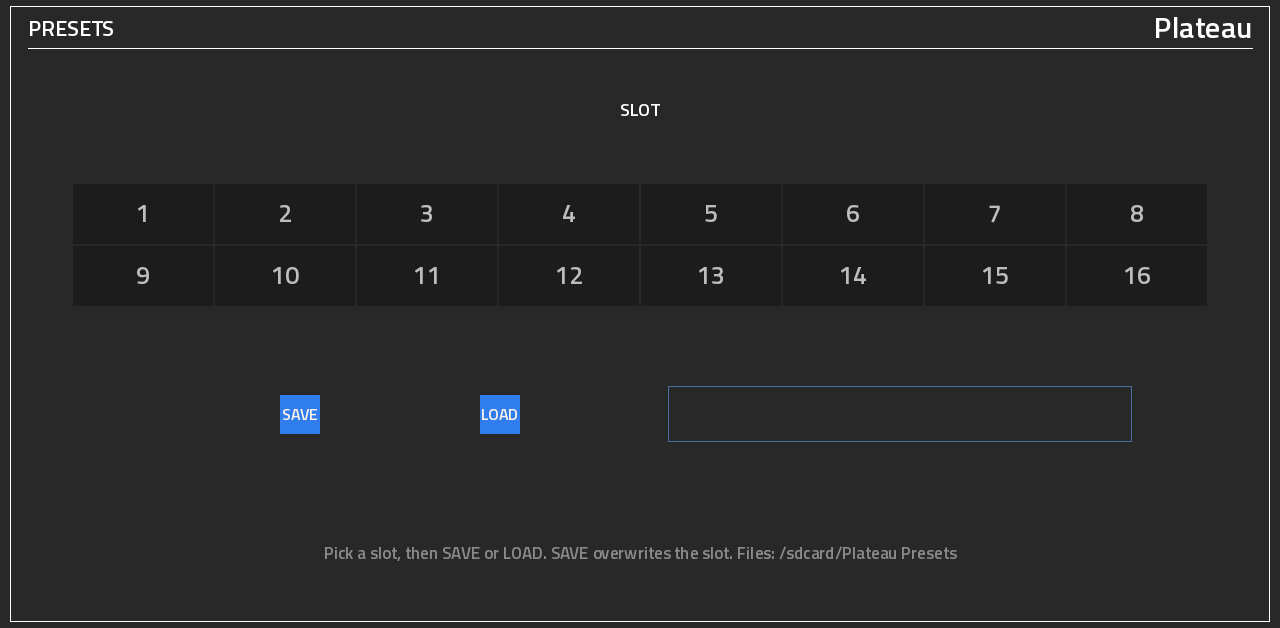
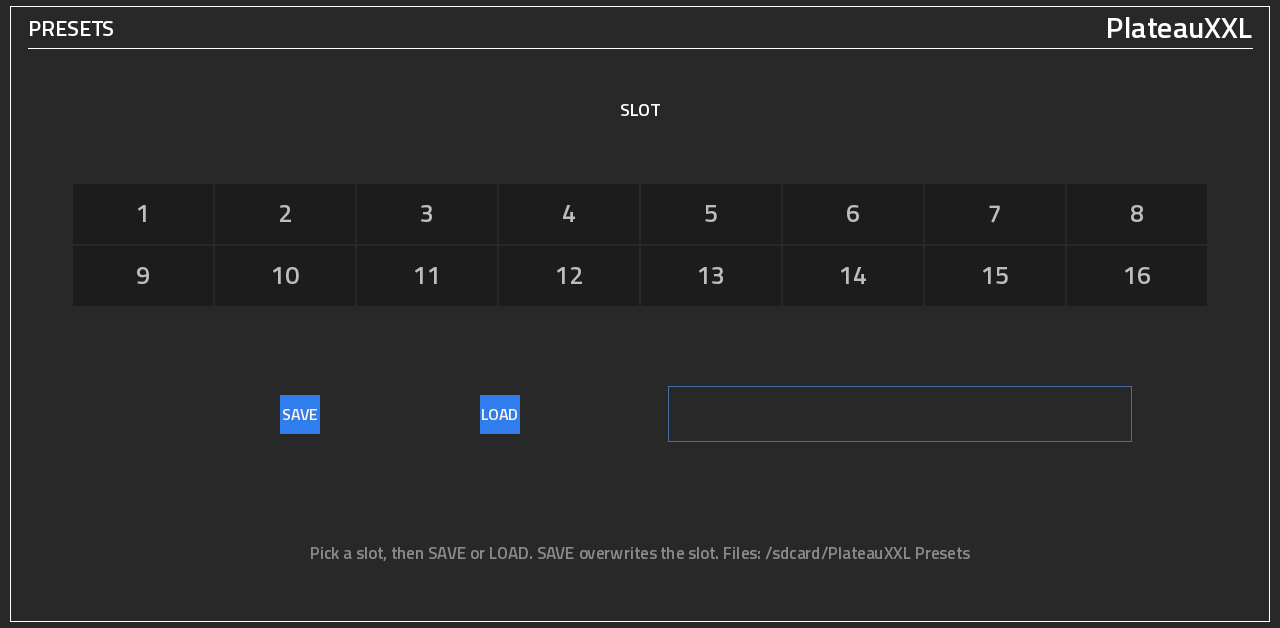
0.4.1: name the plugin PlateauXXL on the device and in the catalog
Plugin list, page titles, plugin folder, plateauxxl.so, presets folder and catalog id plateauxxl. The uid is unchanged.

Claude-Session: https://claude.ai/code/session_0158n5WvmkJ7rz6zgE5saniE

Changed region(s): [[0.25, 0.8471, 0.75, 0.9076], [0.8438, 0.0303, 1.0, 0.0605]]

diff --git a/src/engine.cc b/src/engine.cc
@@ -6,7 +6,7 @@
 //
 // Panic and presets follow RMXXXL (same author): Panic puts every parameter back to its default (the preset slot
 // stays), empties the tank and restarts the sources; 16 preset slots are files "Preset NN.txt" holding the state
-// string, in "Plateau Presets" (/sdcard/Plateau Presets on the device). Save snapshots the state on the caller's
+// string, in "PlateauXXL Presets" (/sdcard/PlateauXXL Presets on the device). Save snapshots the state on the caller's
 // thread and a worker thread writes it; Load has the worker read the file and the audio thread apply it.
 //
 // Q-Links and taps (RMXXXL 1.2.1, learned on a Force): a trigger fires on every tap (it reads back 0) and on a Q-Link
@@ -332,7 +332,7 @@ void* Create(const char* data_dir) {
   s->s_ceiling = DefaultValue(P_LIM_CEILING);
   PushControlSettings(s, 0);
   // presets: MODULE_DIR (vst.json), else beside the working directory
-  snprintf(s->preset_dir, sizeof s->preset_dir, "%s", data_dir ? data_dir : "Plateau Presets");
+  snprintf(s->preset_dir, sizeof s->preset_dir, "%s", data_dir ? data_dir : "PlateauXXL Presets");
   pthread_mutex_init(&s->preset_mutex, NULL);
   s->save_text = s->loaded_text = s->retired_text = NULL;
   s->save_slot = 0;

diff --git a/tools/gen_params.py b/tools/gen_params.py
@@ -143,7 +143,7 @@ def main():
     keys = [p["key"] for p in P]
     assert len(keys) == len(set(keys)), "duplicate key"
     with open(os.path.join(ROOT, "params.json"), "w") as f:
-        json.dump({"name": "Plateau", "params": P}, f, indent=1)
+        json.dump({"name": "PlateauXXL", "params": P}, f, indent=1)
         f.write("\n")
     lines = ["// generated by tools/gen_params.py: do not edit", "#pragma once", "", "enum ParamId {"]
     lines += ["  %s = %d," % (c_ident(k), i) for i, k in enumerate(keys)]

diff --git a/README.md b/README.md
@@ -1,10 +1,10 @@
-# PlateauXXL v0.4.0
+# PlateauXXL v0.4.1
 
 **Valley Audio's Plateau reverb, patched with its own LFOs, random sources and sequencers, running natively inside
 MPC OS on the Akai Force.**
 
 PlateauXXL is a VST2 insert effect for MPC OS's built-in plugin host, made by L'Cronx (shown on the device as
-**Plateau** by **ANDREALPHEUS**). It is a port of **Plateau**, Dale Johnson's plate reverb for VCV Rack: huge,
+**PlateauXXL** by **ANDREALPHEUS**). It is a port of **Plateau**, Dale Johnson's plate reverb for VCV Rack: huge,
 smooth tails from Jon Dattorro's 1997 algorithm, a modulated tank, Hold to freeze it, Clear to empty it, and a Tuned
 mode that turns tiny tank sizes into pitched, resonant tones. On VCV Rack, Plateau comes alive through what is patched
 into its fifteen CV jacks. A Force has no cables, so PlateauXXL builds the patch in: every jack picks a source, and the
@@ -12,7 +12,7 @@ sources are VCV favourites running inside the plugin, each on a page drawn like 
 track, a submix or the master; everything sits in one insert slot, follows the MPC tempo and saves with your project.
 
 > [!NOTE]
-> **Status: 0.4.0.** 0.3.0 was tested on an Akai Force (the latest MPC OS, with MockbaMod). 0.4.0 adds Panic,
+> **Status: 0.4.1.** 0.3.0 was tested on an Akai Force (the latest MPC OS, with MockbaMod). 0.4.x adds Panic,
 > presets and the new Q-Link layout, and passes the full test suite on x86 (ASan + UBSan) and on the ARM build under
 > QEMU; it is not yet tested on the device. Report anything odd under [Issues](../../issues).
 
@@ -87,20 +87,23 @@ Clear empties the tank on each rising edge).
 
 ## Installation
 
-Download `Plateau-<version>-mpc-armv7.zip` from [Releases](../../releases), or build it (below). Unzip it and
+Download `PlateauXXL-<version>-mpc-armv7.zip` from [Releases](../../releases), or build it (below). Unzip it and
 follow the `INSTALL.md` inside. In short:
 
 ```
-scp -r Plateau-<version> root@<device-ip>:/tmp/
-ssh -t root@<device-ip> sh /tmp/Plateau-<version>/install.sh
+scp -r PlateauXXL-<version> root@<device-ip>:/tmp/
+ssh -t root@<device-ip> sh /tmp/PlateauXXL-<version>/install.sh
 ```
 
 The installer asks for confirmation (`-y` skips it), **stops MPC** (save your project first), copies the plugin
-to `/sdcard/Synths/ANDREALPHEUS - VST - Plateau/`, backs up and edits `MPC.settings`, and starts MPC again.
-Running it again upgrades in place. Then insert **Plateau** (manufacturer ANDREALPHEUS) on a track, submix or the
+to `/sdcard/Synths/ANDREALPHEUS - VST - PlateauXXL/`, backs up and edits `MPC.settings`, and starts MPC again.
+Running it again upgrades in place. Then insert **PlateauXXL** (manufacturer ANDREALPHEUS) on a track, submix or the
 master. `uninstall.sh` removes it the same way.
 
-Presets go in `/sdcard/Plateau Presets` (created on the first save), outside the plugin folder, so they survive
+Upgrading from 0.4.0 or earlier: those were installed as **Plateau**. Remove that first with the old zip's
+uninstaller (`ssh -t root@<device-ip> sh /tmp/Plateau-0.4.0/uninstall.sh`), then install this one.
+
+Presets go in `/sdcard/PlateauXXL Presets` (created on the first save), outside the plugin folder, so they survive
 updates.
 
 ## Building
@@ -111,7 +114,7 @@ Linux or WSL with Python 3 (+ Pillow, cairosvg), gcc, the DejaVu fonts and [Zig]
 ```
 git clone --recursive https://github.com/sunskiefer/PlateauXXL
 cd PlateauXXL
-./build.sh                # build/arm/plateau.so + the skin -> build/package/
+./build.sh                # build/arm/plateauxxl.so + the skin -> build/package/
 test/run_tests.sh         # the framework's host test + PlateauXXL's own suites, under ASan/UBSan
 ```
 

diff --git a/docs/USER_GUIDE.md b/docs/USER_GUIDE.md
@@ -3,7 +3,7 @@
 PlateauXXL is Valley Audio's **Plateau** reverb from VCV Rack as an insert effect for MPC OS on the Akai Force, with
 the patch cables replaced by modulation sources that run inside the plugin: four **Bogaudio LFOs**, **Tidal
 Modulator 2** (Mutable Instruments Tides 2), **Random Sampler** (Mutable Instruments Marbles), and two step and two
-gate sequencers. On the device it is listed as **Plateau**, manufacturer **ANDREALPHEUS**.
+gate sequencers. On the device it is listed as **PlateauXXL**, manufacturer **ANDREALPHEUS**.
 
 - [Install](#install)
 - [The signal path](#the-signal-path)
@@ -25,18 +25,18 @@ gate sequencers. On the device it is listed as **Plateau**, manufacturer **ANDRE
 
 You need a first-generation Akai Force on MPC OS 3.x with root SSH access (for example through MockbaMod).
 
-1. Download `Plateau-<version>-mpc-armv7.zip` from [Releases](../../../releases) and unzip it on your computer.
+1. Download `PlateauXXL-<version>-mpc-armv7.zip` from [Releases](../../../releases) and unzip it on your computer.
 2. Copy the folder to the Force and run the installer (save your project first: it stops MPC):
 
    ```
-   scp -r Plateau-<version> root@<device-ip>:/tmp/
-   ssh -t root@<device-ip> sh /tmp/Plateau-<version>/install.sh
+   scp -r PlateauXXL-<version> root@<device-ip>:/tmp/
+   ssh -t root@<device-ip> sh /tmp/PlateauXXL-<version>/install.sh
    ```
 
-3. MPC starts again. Insert **Plateau** (ANDREALPHEUS) on a track, a submix or the master.
+3. MPC starts again. Insert **PlateauXXL** (ANDREALPHEUS) on a track, a submix or the master.
 
 Running the installer again upgrades in place; `uninstall.sh` in the same folder removes it. Your presets live in
-`/sdcard/Plateau Presets` and are not touched by either.
+`/sdcard/PlateauXXL Presets` and are not touched by either.
 
 ## The signal path
 
@@ -131,7 +131,7 @@ whole step) or **Width** (gate sequencers: how much of a step the gate stays hig
 3. **LOAD** brings every setting back from that slot. The line says **LOADED**.
 
 A preset holds everything: the reverb, the limiter, the CV routing, every LFO, Tidal, Random and sequencer setting.
-The slots are files in `/sdcard/Plateau Presets` (`Preset 01.txt` to `Preset 16.txt`), outside the plugin folder,
+The slots are files in `/sdcard/PlateauXXL Presets` (`Preset 01.txt` to `Preset 16.txt`), outside the plugin folder,
 so they survive updates and can be copied to another device or backed up. Saving and loading happen off the audio
 thread, so they never click. The Force has no keyboard on plugin screens, so slots are numbered, not named.
 
@@ -280,6 +280,6 @@ preset straight after. The screen and the Q-Links follow within a fraction of a 
 | A source doesn't move anything | Check the input's attenuverter isn't at 0 %, and that the source runs (an LFO at Scale 0 %, a sequencer with all steps at 0 V, a gate sequencer with no steps on) |
 | The tempo-locked sources don't follow | They use the project tempo; press play once so they lock to the song position |
 | The tail never stops | Hold is on, or its input is on a gate that stays high; press Clear or Panic |
-| A preset says SAVE FAILED | The card or internal storage is full or read-only. Check `/sdcard/Plateau Presets` over SSH |
+| A preset says SAVE FAILED | The card or internal storage is full or read-only. Check `/sdcard/PlateauXXL Presets` over SSH |
 | The sound is crushed | Drive is high or Ceiling low on IN / OUT; Panic resets them |
 | Something sounds wrong after a lot of changes | Panic, then load your preset |

diff --git a/.github/RELEASE_NOTES.md b/.github/RELEASE_NOTES.md
@@ -2,7 +2,7 @@
 
 Put it on a track, a submix or the master: huge Dattorro plate tails, Hold to freeze the tank, Clear to empty it, Tuned mode for pitched resonances, and every one of the module's 15 CV jacks patched to a modulation source running inside the plugin. Everything sits in one insert slot, with its own touchscreen pages and Q-Links, follows the MPC tempo and saves with your project.
 
-> 🧪 **0.4.0 is built and tested offline** (x86 with ASan + UBSan, and the ARM build under QEMU); **0.3.0 was tested on an Akai Force** (the latest MPC OS with MockbaMod). New in 0.4.0: every control on a Q-Link in reading order (buttons included), Panic, 16 user presets, an IN / OUT page for the input and the limiter, a page per sequencer, and the Q-Link feel from RMXXXL 1.2.1 (switches flip once per turn, lists can't race, buttons fire on every tap). As with any third-party plugin, save your projects before installing, and report problems under **Issues**. Full list: [CHANGELOG](https://github.com/sunskiefer/PlateauXXL/blob/main/CHANGELOG.md).
+> 🧪 **0.4.1 is built and tested offline** (x86 with ASan + UBSan, and the ARM build under QEMU); **0.3.0 was tested on an Akai Force** (the latest MPC OS with MockbaMod). New in 0.4.1: the plugin is now called **PlateauXXL** on the device too. New in 0.4.0: every control on a Q-Link in reading order (buttons included), Panic, 16 user presets, an IN / OUT page for the input and the limiter, a page per sequencer, and the Q-Link feel from RMXXXL 1.2.1 (switches flip once per turn, lists can't race, buttons fire on every tap). As with any third-party plugin, save your projects before installing, and report problems under **Issues**. Full list: [CHANGELOG](https://github.com/sunskiefer/PlateauXXL/blob/main/CHANGELOG.md).
 
 ## How you play it
 1. **Set the space** with Size, Diffusion and Decay, and colour it with the input and tank filters.
@@ -21,12 +21,14 @@ Put it on a track, a submix or the master: huge Dattorro plate tails, Hold to fr
 - Root SSH access (for example MockbaMod)
 
 ## Install
-Download **Plateau-0.4.0-mpc-armv7.zip** below, unzip it, then:
+Download **PlateauXXL-0.4.1-mpc-armv7.zip** below, unzip it, then:
 
-    scp -r Plateau-0.4.0 root@<device-ip>:/tmp/
-    ssh -t root@<device-ip> sh /tmp/Plateau-0.4.0/install.sh
+    scp -r PlateauXXL-0.4.1 root@<device-ip>:/tmp/
+    ssh -t root@<device-ip> sh /tmp/PlateauXXL-0.4.1/install.sh
 
-The installer stops MPC (save first), installs the plugin, and starts MPC again. Then insert **Plateau** (manufacturer ANDREALPHEUS) as an insert effect. Presets go in `/sdcard/Plateau Presets`.
+The installer stops MPC (save first), installs the plugin, and starts MPC again. Then insert **PlateauXXL** (manufacturer ANDREALPHEUS) as an insert effect. Presets go in `/sdcard/PlateauXXL Presets`.
+
+Upgrading from 0.4.0 or earlier: those were installed as **Plateau**. Remove that first with the old zip's uninstaller (`ssh -t root@<device-ip> sh /tmp/Plateau-0.4.0/uninstall.sh`), then install this one.
 
 Full guide (every control, patching, the modulation modules, Q-Links, presets, troubleshooting): [docs/USER_GUIDE.md](https://github.com/sunskiefer/PlateauXXL/blob/main/docs/USER_GUIDE.md)
 

diff --git a/ROADMAP.md b/ROADMAP.md
@@ -7,9 +7,9 @@ Modulator 2, Random Sampler, two step and two gate sequencers), tempo-synced; ea
 ## Next: on the Force
 - 0.2.0 seen on a Force (2026-10-08): pages draw as designed; the LFO FREQ knob jumped (fixed in 0.3.0).
 - 0.3.0 tested on a Force with the latest MPC OS and MockbaMod (2026-10-08).
-- Install 0.4.0: the FREQ knob, the limiter, Panic, presets, the Q-Link order and feel on every page, playing every
+- Install 0.4.1 (named PlateauXXL on the device): the FREQ knob, the limiter, Panic, presets, the Q-Link order and feel on every page, playing every
   source; popups, project save/reload.
-- CPU: `tools/bench.sh build/arm/plateau.so <device-ip> -j` (docs/BENCH.md), once with nothing patched and once with
+- CPU: `tools/bench.sh build/arm/plateauxxl.so <device-ip> -j` (docs/BENCH.md), once with nothing patched and once with
   every source in use (the heaviest case measured offline costs about twice the reverb alone).
 - Record the results in `tested.json`, then release.
 

diff --git a/CHANGELOG.md b/CHANGELOG.md
@@ -1,6 +1,11 @@
 # Changelog
 
-## 0.4.0 (unreleased)
+## 0.4.1
+- The plugin is called **PlateauXXL** on the device (it was Plateau): plugin list, page titles, the plugin folder
+  (`ANDREALPHEUS - VST - PlateauXXL`), `plateauxxl.so`, the presets folder (`/sdcard/PlateauXXL Presets`) and the
+  catalog id `plateauxxl`. The uid stays the same. Remove an earlier Plateau install with its own uninstaller first.
+
+## 0.4.0
 - Every control is on a Q-Link, buttons and switches included, in reading order on every page: the top row left
   to right, then the next row (Q-Link 1, 2, 3, ...). `tools/qlinks.py` sets them from the screen positions and the
   build fails if one is missing or out of order. A screen with more than 16 controls has two Q-Link sub-pages.
